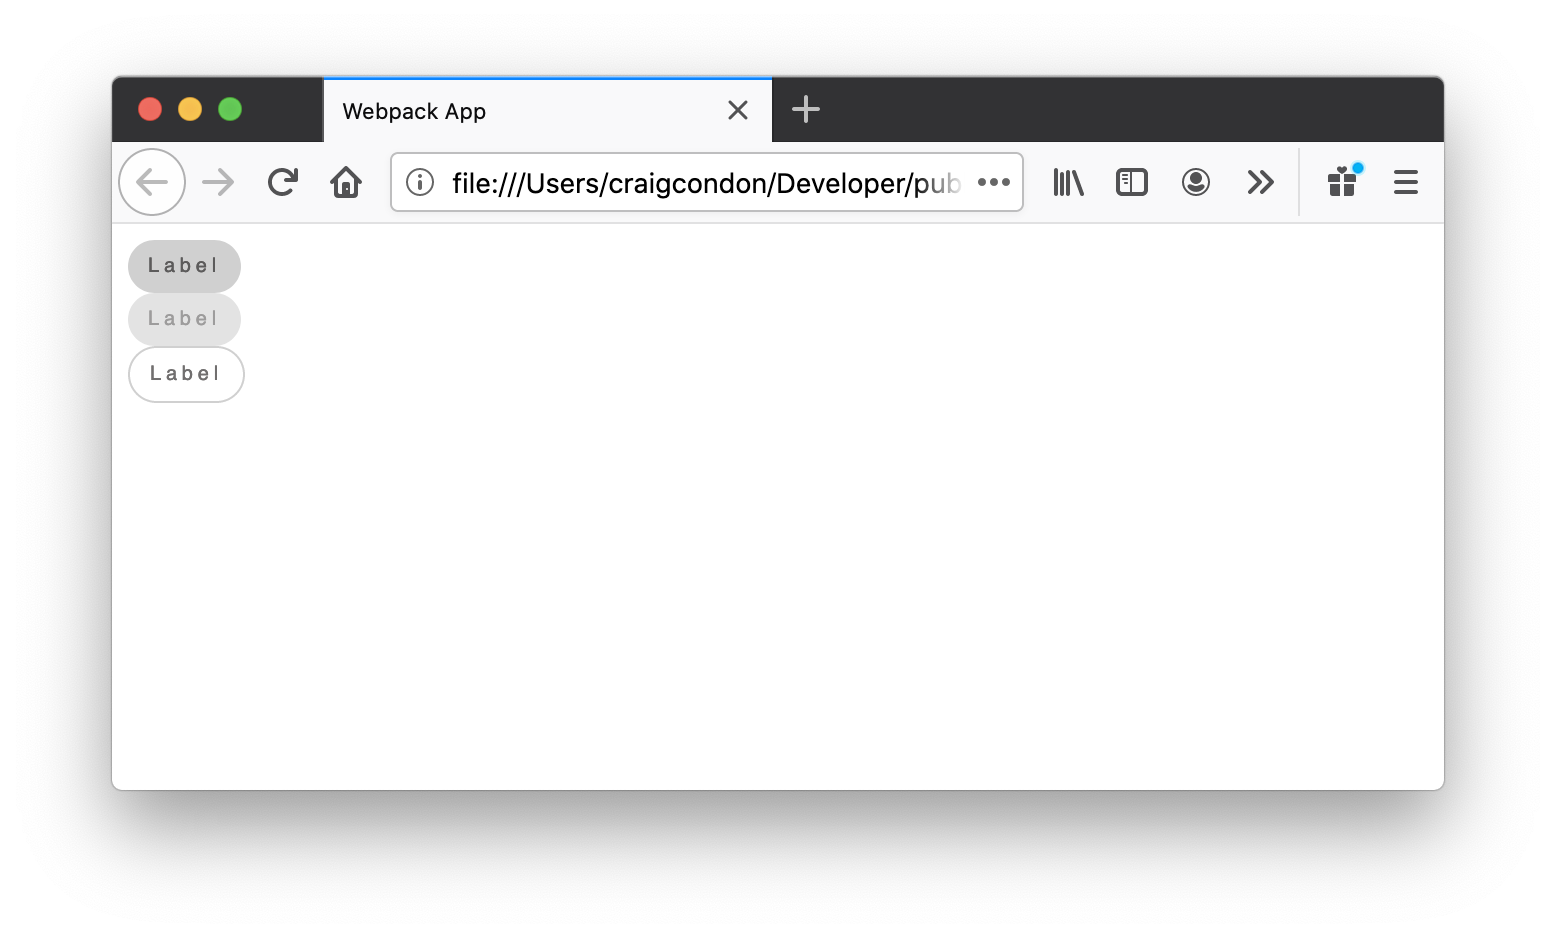
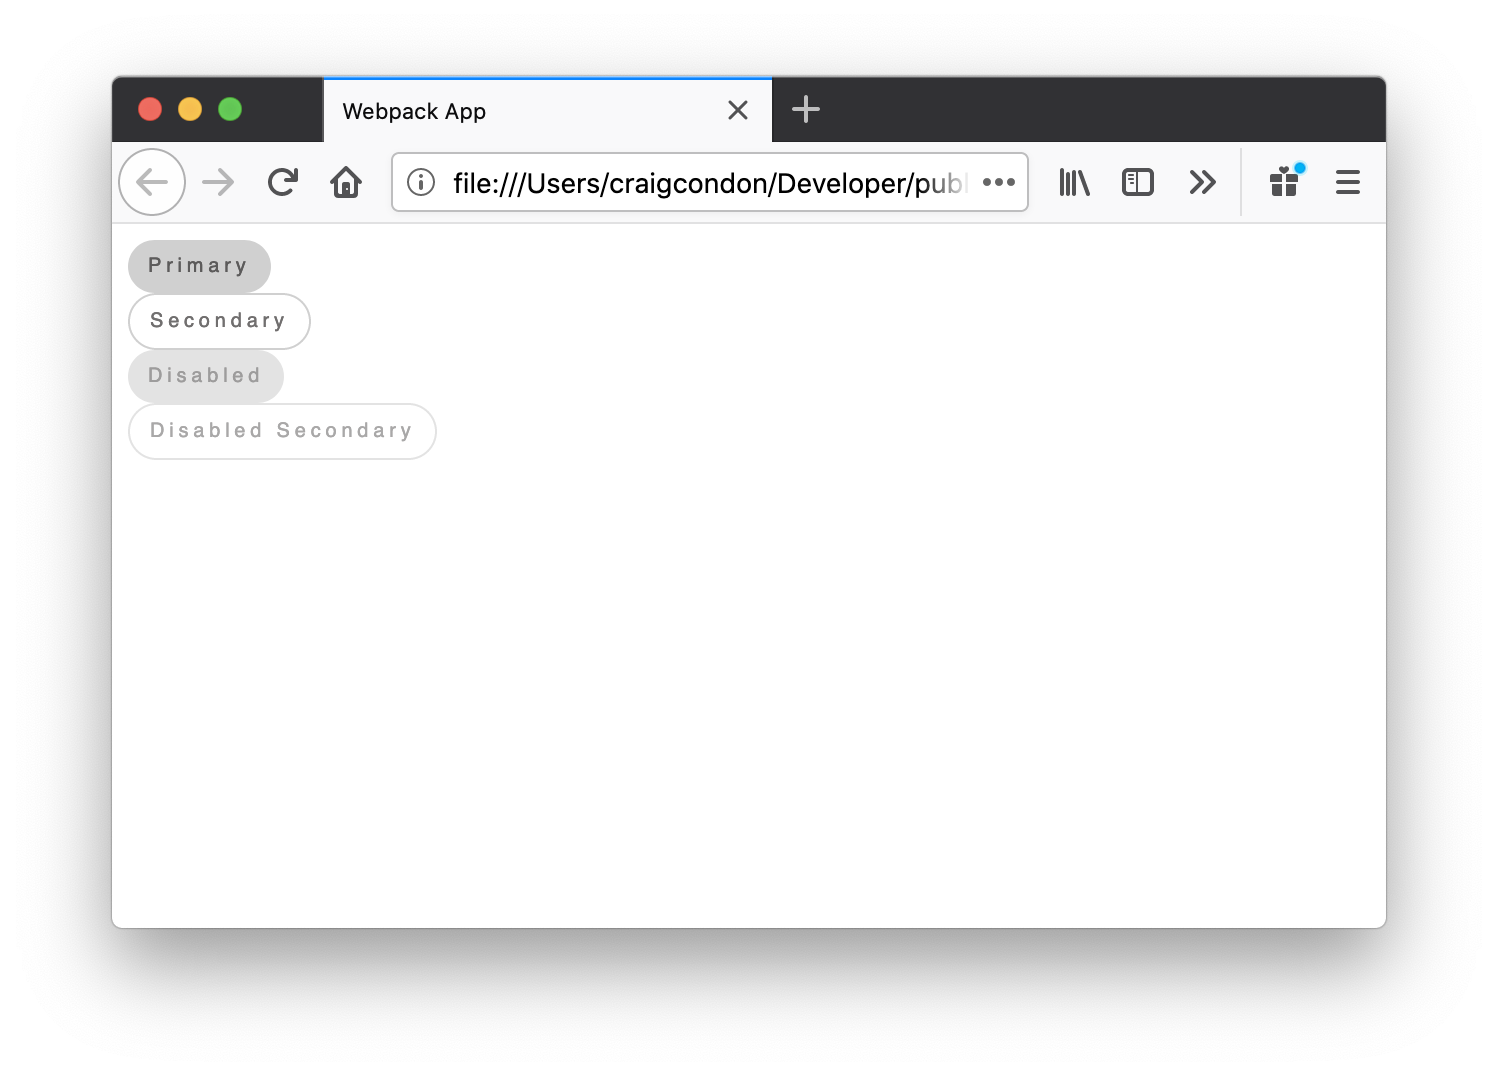
update readme

Changed region(s): [[0.0614, 0.0618, 0.9519, 0.8038], [0.0614, 0.8348, 0.9212, 0.8657]]

diff --git a/README.md b/README.md
@@ -1,12 +1,17 @@
-Figmark is a tool that allows you to use Figma designs in your single page application.
+Figmark is a fully transparent tool that allows you to use Figma designs in your web application in a responsive way.
 
-### Example
+### Resources
+
+- [Getting Started](#getting-started)
+- [Examples](./examples)
+
+### How does it work?
 
 Here are a few button variations in Figma:
 
 ![alt figma design](./docs/assets/screenshot.png)
 
-Using [Figmark's CLI tool](#cli-usage), we can convert to code which looks something like this:
+Using [Figmark's CLI tool](#cli-usage), designs are automatically downloaded & translated into code that looks something like this:
 
 ```html
 <!-- STYLES -->
@@ -90,13 +95,16 @@ Using [Figmark's CLI tool](#cli-usage), we can convert to code which looks somet
 </span>
 ```
 
-Then by using [Paperclip](https://github.com/crcn/paperclip), we can include the designs directly into our React code and add additional styles for responsiveness:
+From here, we can use [Paperclip](https://github.com/crcn/paperclip) to load these templates into our application code. Here's an example of how we can do that in React:
 
 ```jsx
+import * as React from "react";
+import * as ReactDOM from "react-dom";
+import * as cx from "classnames";
 import {
   ButtonPrimary,
-  ButtonPrimary_Label,
-  ButtonPrimary_Background,
+  ButtonPrimary_Label3,
+  ButtonPrimary_Background3,
   classNames,
 } from "./design-generated/test/figmark-2.pc";
 import styled from "styled-components";
@@ -105,39 +113,86 @@ const StyledButton = styled(ButtonPrimary)`
   cursor: pointer;
   display: block;
   display: flex;
-  .${classNames.buttonPrimary_background} {
+  .${classNames.buttonPrimary_background3} {
     padding: 8px 10px;
   }
-  .${classNames.buttonPrimary_label} {
+  .${classNames.buttonPrimary_label3} {
     font-family: Helvetica;
   }
 `;
 
-const Demo = () => {
+type EnhancedButtonProps = {
+  disabled?: boolean,
+  primary?: boolean,
+  secondary?: boolean,
+  children?: React.ReactNode,
+};
+
+const EnhancedButton = ({
+  disabled,
+  secondary,
+  children,
+}: EnhancedButtonProps) => (
+  <StyledButton
+    className={cx({
+      [classNames.buttonDisabled]: disabled,
+      [classNames.buttonSecondary]: secondary,
+    })}
+  >
+    <ButtonPrimary_Background3>
+      <ButtonPrimary_Label3>{children}</ButtonPrimary_Label3>
+    </ButtonPrimary_Background3>
+  </StyledButton>
+);
+
+const App = () => {
   return (
     <>
-      <StyledButton>
-        <ButtonPrimary_Background>
-          <ButtonPrimary_Label>Label</ButtonPrimary_Label>
-        </ButtonPrimary_Background>
-      </StyledButton>
-      <StyledButton className={classNames.buttonDisabled}>
-        <ButtonPrimary_Background>
-          <ButtonPrimary_Label>Label</ButtonPrimary_Label>
-        </ButtonPrimary_Background>
-      </StyledButton>
-      <StyledButton className={classNames.buttonSecondary}>
-        <ButtonPrimary_Background>
-          <ButtonPrimary_Label>Label</ButtonPrimary_Label>
-        </ButtonPrimary_Background>
-      </StyledButton>
+      <EnhancedButton>Primary</EnhancedButton>
+      <EnhancedButton secondary>Secondary</EnhancedButton>
+      <EnhancedButton disabled>Disabled</EnhancedButton>
+      <EnhancedButton disabled secondary>
+        Disabled Secondary
+      </EnhancedButton>
     </>
   );
 };
 ```
 
-Here's the result:
+Here's what the code above looks like when loaded in a browser.
 
 ![alt figma design](./docs/assets/preview-screenshot.png)
 
-### CLI usage
+That's all there is to it! 🎉
+
+## Getting started
+
+To get started, you'll need to install the CLI tool - go ahead and run:
+
+```
+npm install figmark -g
+```
+
+After that, `cd` to your project directory, then run:
+
+```
+figmark init
+```
+
+This will prompt you for a few necessary things, starting with your **Figma personal access key**. You'll need to generate a new one -- here's how you do that:
+
+![alt figma design](./docs/assets/finding-pat.gif)
+
+You'll _then_ be asked to set your **team ID**. You'll find it in the URL when you select a Figma team. Here's what I mean:
+
+![alt figma design](./docs/assets/finding-team.gif)
+
+You'll need to answer a few more questions, then you should be good to go!
+
+Next up, go ahead and download your design files:
+
+```
+figmark pull
+```
+
+That's it! Now you can start using your designs in code. Check out the [examples](./examples) on how to do that.
